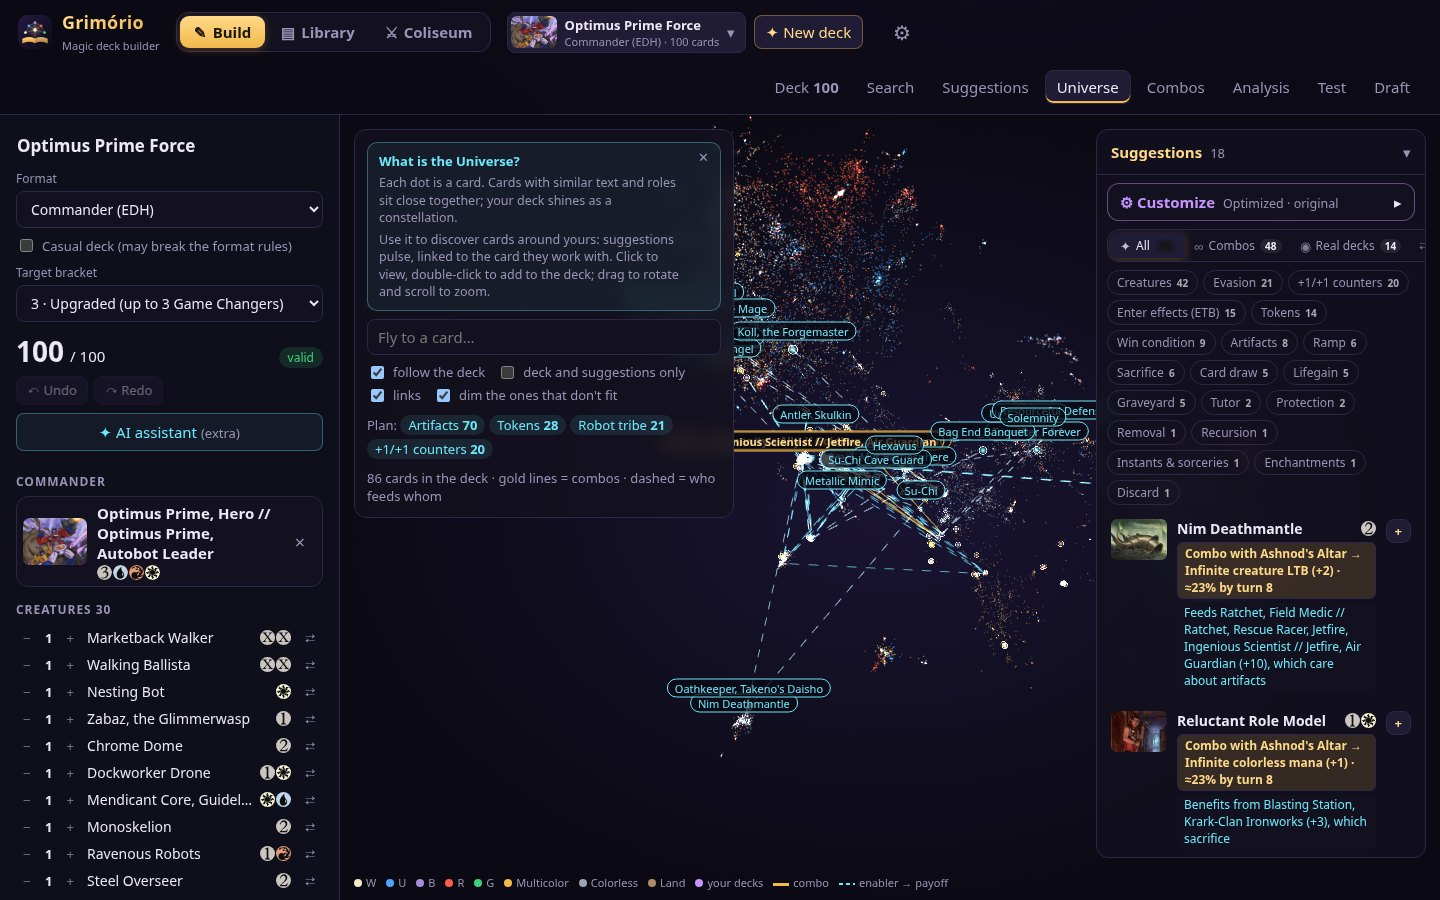
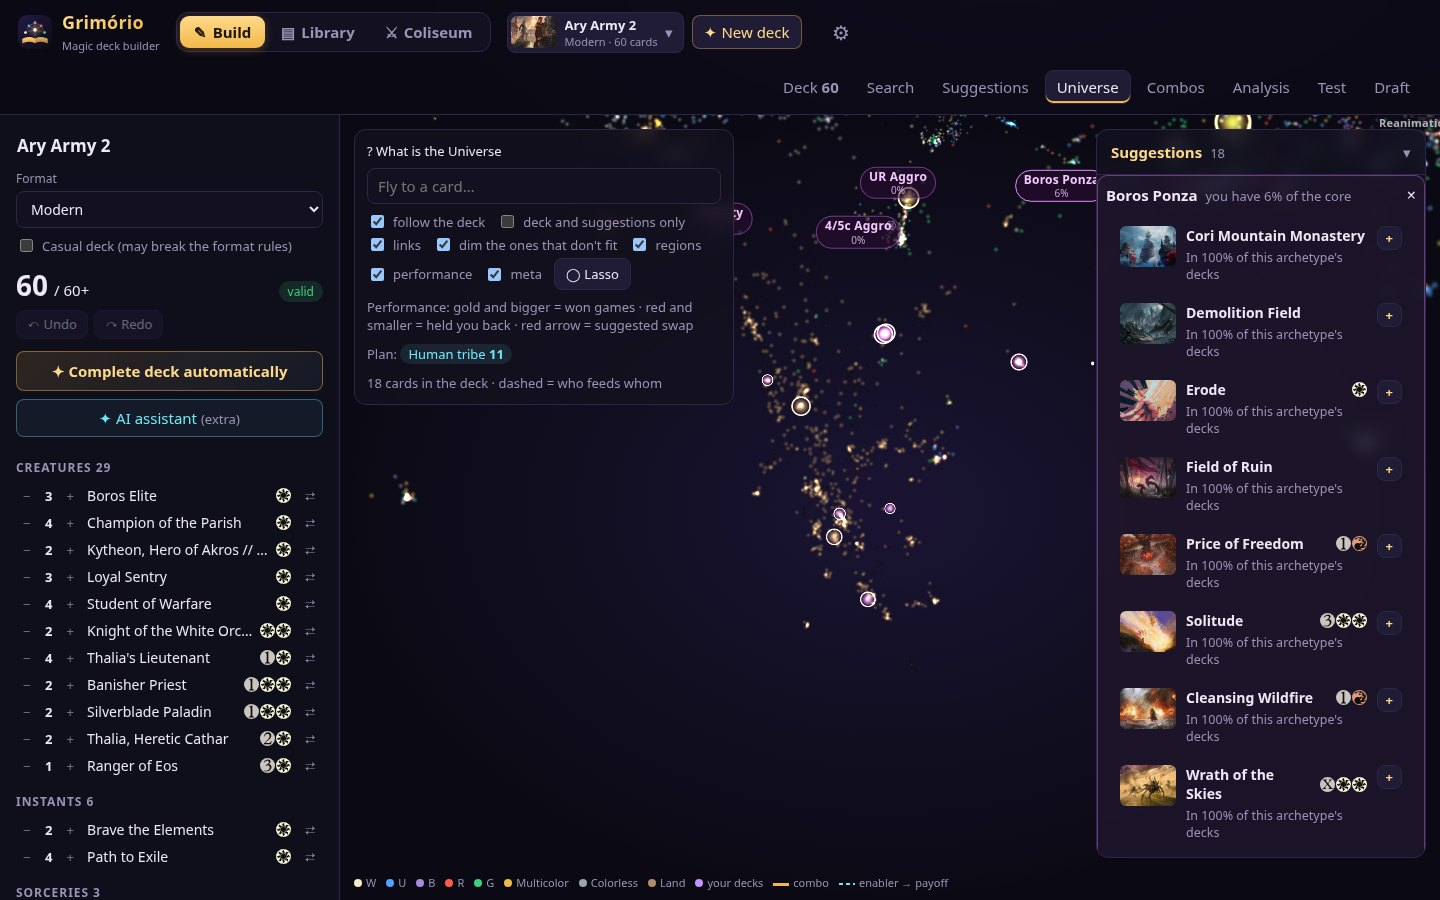
READMEs: Universe layers, bets and trophies; new Universe screenshot

diff --git a/README.pt.md b/README.pt.md
@@ -42,11 +42,14 @@ Para o pôr a correr num servidor em casa para vários dispositivos, ou para o d
 - **Começa à tua maneira** — escolhe 3–10 cartas (ou um comandante) e deixa-o completar o deck, constrói à mão, importa, ou descreve uma ideia.
 - **Importar** do TappedOut, Moxfield, Archidekt, MTGGoldfish, Deckstats, MTGTop8 e Scryfall — perfis inteiros,
   ilustrações de carta e capas personalizadas, sideboard e maybeboard. Pesquisa decks públicos do Archidekt com filtros.
-- **Universo 3D de cartas**, combos e pacotes de sinergia, comparação de decks e deteção de duplicados.
+- **Universo 3D de cartas** — regiões por função que mostram o que falta ao teu deck, o desempenho de cada carta nos
+  jogos com trocas sugeridas, constelações dos arquétipos do meta e um laço para achar as melhores cartas de qualquer zona.
+- **Combos e pacotes de sinergia**, comparação de decks e deteção de duplicados.
 - **Coliseu (IA do Forge)** — IA contra IA com regras reais (Bo1/Bo3, sideboard inteligente, aprendizagem), todos contra
   todos a 3–4 jogadores e mesas de Commander, um tabuleiro animado que podes ver ao vivo, relatórios e melhorias
   sugeridas, e joga tu próprio contra o Forge no navegador (instalação de servidor com Docker).
-- **Torneios** — eliminação simples/dupla, suíço, liga e mesas, árvore ao vivo, pódio e histórico.
+- **Torneios** — eliminação simples/dupla, suíço, liga e mesas, árvore ao vivo, pódio e histórico; apostas com moedas
+  a fingir (nada se compra, sem dinheiro a sério) e troféus nos decks que ganham.
 - **Ratings** — 0–6 estrelas por deck (Elo por formato, mais um rating casual à parte) alimentadas por testes, torneios
   e uma Arena automática opcional.
 - **Perfis** — uma instalação, vários jogadores, cada um com os seus decks.

diff --git a/README.zh-CN.md b/README.zh-CN.md
@@ -40,10 +40,13 @@ Grimório 是一款免费的套牌构筑工具，支持所有赛制（指挥官 
 - **想怎么开始都行**——选 3–10 张牌（或一个指挥官）让它补完整副套牌，也可以手动构筑、导入，或者描述一个思路。
 - **导入**：支持 TappedOut、Moxfield、Archidekt、MTGGoldfish、Deckstats、MTGTop8 和 Scryfall——可导入整个用户主页的套牌、
   自定义卡图和封面、备牌和候选区。还能带筛选条件搜索 Archidekt 上的公开套牌。
-- **3D 卡牌宇宙**、组合技与协同组件、套牌对比和重复检测。
+- **3D 卡牌宇宙**——按作用划分的区域显示你的套牌缺什么，每张牌在实战中的表现及替换建议，环境原型星座，
+  以及用套索圈出任意区域找出其中最好的牌。
+- **组合技与协同组件**、套牌对比和重复检测。
 - **竞技场（Forge AI）**——按真实规则进行 AI 对 AI 对局（Bo1/Bo3、局间智能换备牌、会学习），3–4 人混战和指挥官牌桌，
   可以实时观看的动画牌桌，对局报告和改进建议；还可以在浏览器里亲自对战 Forge（需要用 Docker 的服务器部署）。
-- **赛事**——单淘汰、双败淘汰、瑞士轮、联赛和牌桌，实时对阵图、领奖台和历史记录。
+- **赛事**——单淘汰、双败淘汰、瑞士轮、联赛和牌桌，实时对阵图、领奖台和历史记录；用游戏金币投注
+  （无需购买，不涉及真钱），获胜套牌会得到奖杯。
 - **评分**——每副套牌 0–6 星（每个赛制单独计算 Elo，另有独立的休闲评分），数据来自测试、赛事和可选的自动 Arena。
 - **档案**——一份安装，多名玩家，每人有自己的套牌。
 - **可安装**为手机和平板上的 PWA；触屏友好。

diff --git a/README.es.md b/README.es.md
@@ -47,11 +47,15 @@ Si quieres instalarlo en un servidor doméstico para varios dispositivos, o desa
   impórtalo o describe una idea.
 - **Importa** desde TappedOut, Moxfield, Archidekt, MTGGoldfish, Deckstats, MTGTop8 y Scryfall: perfiles enteros,
   ilustraciones y portadas personalizadas, sideboard y maybeboard. Busca mazos públicos de Archidekt con filtros.
-- **Universo 3D de cartas**, combos y paquetes de sinergia, comparación de mazos y detección de duplicados.
+- **Universo 3D de cartas**: regiones por función que muestran lo que le falta a tu mazo, el rendimiento de cada carta
+  en partidas reales con cambios sugeridos, constelaciones de los arquetipos del meta y un lazo para encontrar las mejores
+  cartas de cualquier zona.
+- **Combos y paquetes de sinergia**, comparación de mazos y detección de duplicados.
 - **Coliseo (IA de Forge)**: IA contra IA con reglas reales (Bo1/Bo3, sideboard inteligente, aprendizaje), todos
   contra todos de 3–4 jugadores y mesas de Commander, un tablero animado que puedes seguir en directo, informes y
   mejoras sugeridas, y la opción de jugar tú contra Forge en el navegador (instalación de servidor con Docker).
-- **Torneos**: eliminación directa y doble eliminación, suizo, liga y mesas, cuadro en directo, podio e historial.
+- **Torneos**: eliminación directa y doble eliminación, suizo, liga y mesas, cuadro en directo, podio e historial;
+  apuestas con monedas de juego (no se compra nada, sin dinero real) y trofeos en los mazos que ganan.
 - **Ratings**: de 0 a 6 estrellas por mazo (Elo por formato, más un rating casual aparte), alimentados por las
   pruebas, los torneos y una Arena automática opcional.
 - **Perfiles**: una instalación, varios jugadores, cada uno con sus propios mazos.

diff --git a/README.de.md b/README.de.md
@@ -46,11 +46,14 @@ Du willst Grimório auf einem Heimserver für mehrere Geräte betreiben oder dar
   Hand, importiere oder beschreibe eine Idee.
 - **Import** von TappedOut, Moxfield, Archidekt, MTGGoldfish, Deckstats, MTGTop8 und Scryfall – ganze Profile, eigene
   Kartenbilder und Cover, Sideboard und Maybeboard. Durchsuche öffentliche Archidekt-Decks mit Filtern.
-- **3D-Kartenuniversum**, Combos und Synergiepakete, Deckvergleich und Erkennung doppelter Decks.
+- **3D-Kartenuniversum** – Regionen nach Rolle, die zeigen, was deinem Deck fehlt, die Leistung jeder Karte in echten
+  Spielen mit Tauschvorschlägen, Sternbilder der Meta-Archetypen und ein Lasso, um die besten Karten jedes Bereichs zu finden.
+- **Combos und Synergiepakete**, Deckvergleich und Erkennung doppelter Decks.
 - **Kolosseum (Forge-KI)** – KI gegen KI mit echten Regeln (Bo1/Bo3, cleveres Sideboarding, lernend), Jeder gegen jeden
   mit 3–4 Spielern und Commander-Tische, ein animiertes Spielfeld, das du live verfolgen kannst, Berichte und
   Verbesserungsvorschläge – und du kannst selbst im Browser gegen Forge spielen (Server-Installation mit Docker).
-- **Turniere** – K.-o.-System, Doppel-K.-o., Schweizer System, Liga und Tische, Live-Turnierbaum, Podium und Verlauf.
+- **Turniere** – K.-o.-System, Doppel-K.-o., Schweizer System, Liga und Tische, Live-Turnierbaum, Podium und Verlauf;
+  Wetten mit Spielmünzen (nichts zu kaufen, kein echtes Geld) und Trophäen für die Siegerdecks.
 - **Ratings** – 0–6 Sterne pro Deck (Elo pro Format, dazu ein eigenes Casual-Rating), gespeist aus Tests, Turnieren und
   einer optionalen automatischen Arena.
 - **Profile** – eine Installation, mehrere Spieler, jeder mit seinen eigenen Decks.

diff --git a/README.md b/README.md
@@ -41,11 +41,14 @@ Running it on a home server for several devices, or developing it: see [Develope
 - **Start your way** — pick 3–10 cards (or a commander) and let it complete the deck, build by hand, import, or describe an idea.
 - **Import** from TappedOut, Moxfield, Archidekt, MTGGoldfish, Deckstats, MTGTop8 and Scryfall — whole profiles,
   custom card art and covers, sideboard and maybeboard. Search public Archidekt decks with filters.
-- **3D card universe**, combos and synergy packages, deck comparison and duplicate detection.
+- **3D card universe** — role regions that show what your deck is missing, each card's performance in real games with
+  suggested swaps, meta archetype constellations and a lasso to find the best cards of any area.
+- **Combos and synergy packages**, deck comparison and duplicate detection.
 - **Coliseum (Forge AI)** — AI vs AI with real rules (Bo1/Bo3, smart sideboarding, learning), 3–4 player free-for-all
   and Commander pods, an animated board you can watch live, reports and suggested improvements, and play against
   Forge yourself in the browser (server install with Docker).
-- **Tournaments** — single/double elimination, Swiss, league and pods, live bracket, podium and history.
+- **Tournaments** — single/double elimination, Swiss, league and pods, live bracket, podium and history; bets with
+  play coins (nothing to buy, no real money) and trophies on the decks that win.
 - **Ratings** — 0–6 stars per deck (Elo per format, plus a separate casual rating) fed by tests, tournaments and an
   optional automatic Arena.
 - **Profiles** — one install, several players, each with their own decks.
